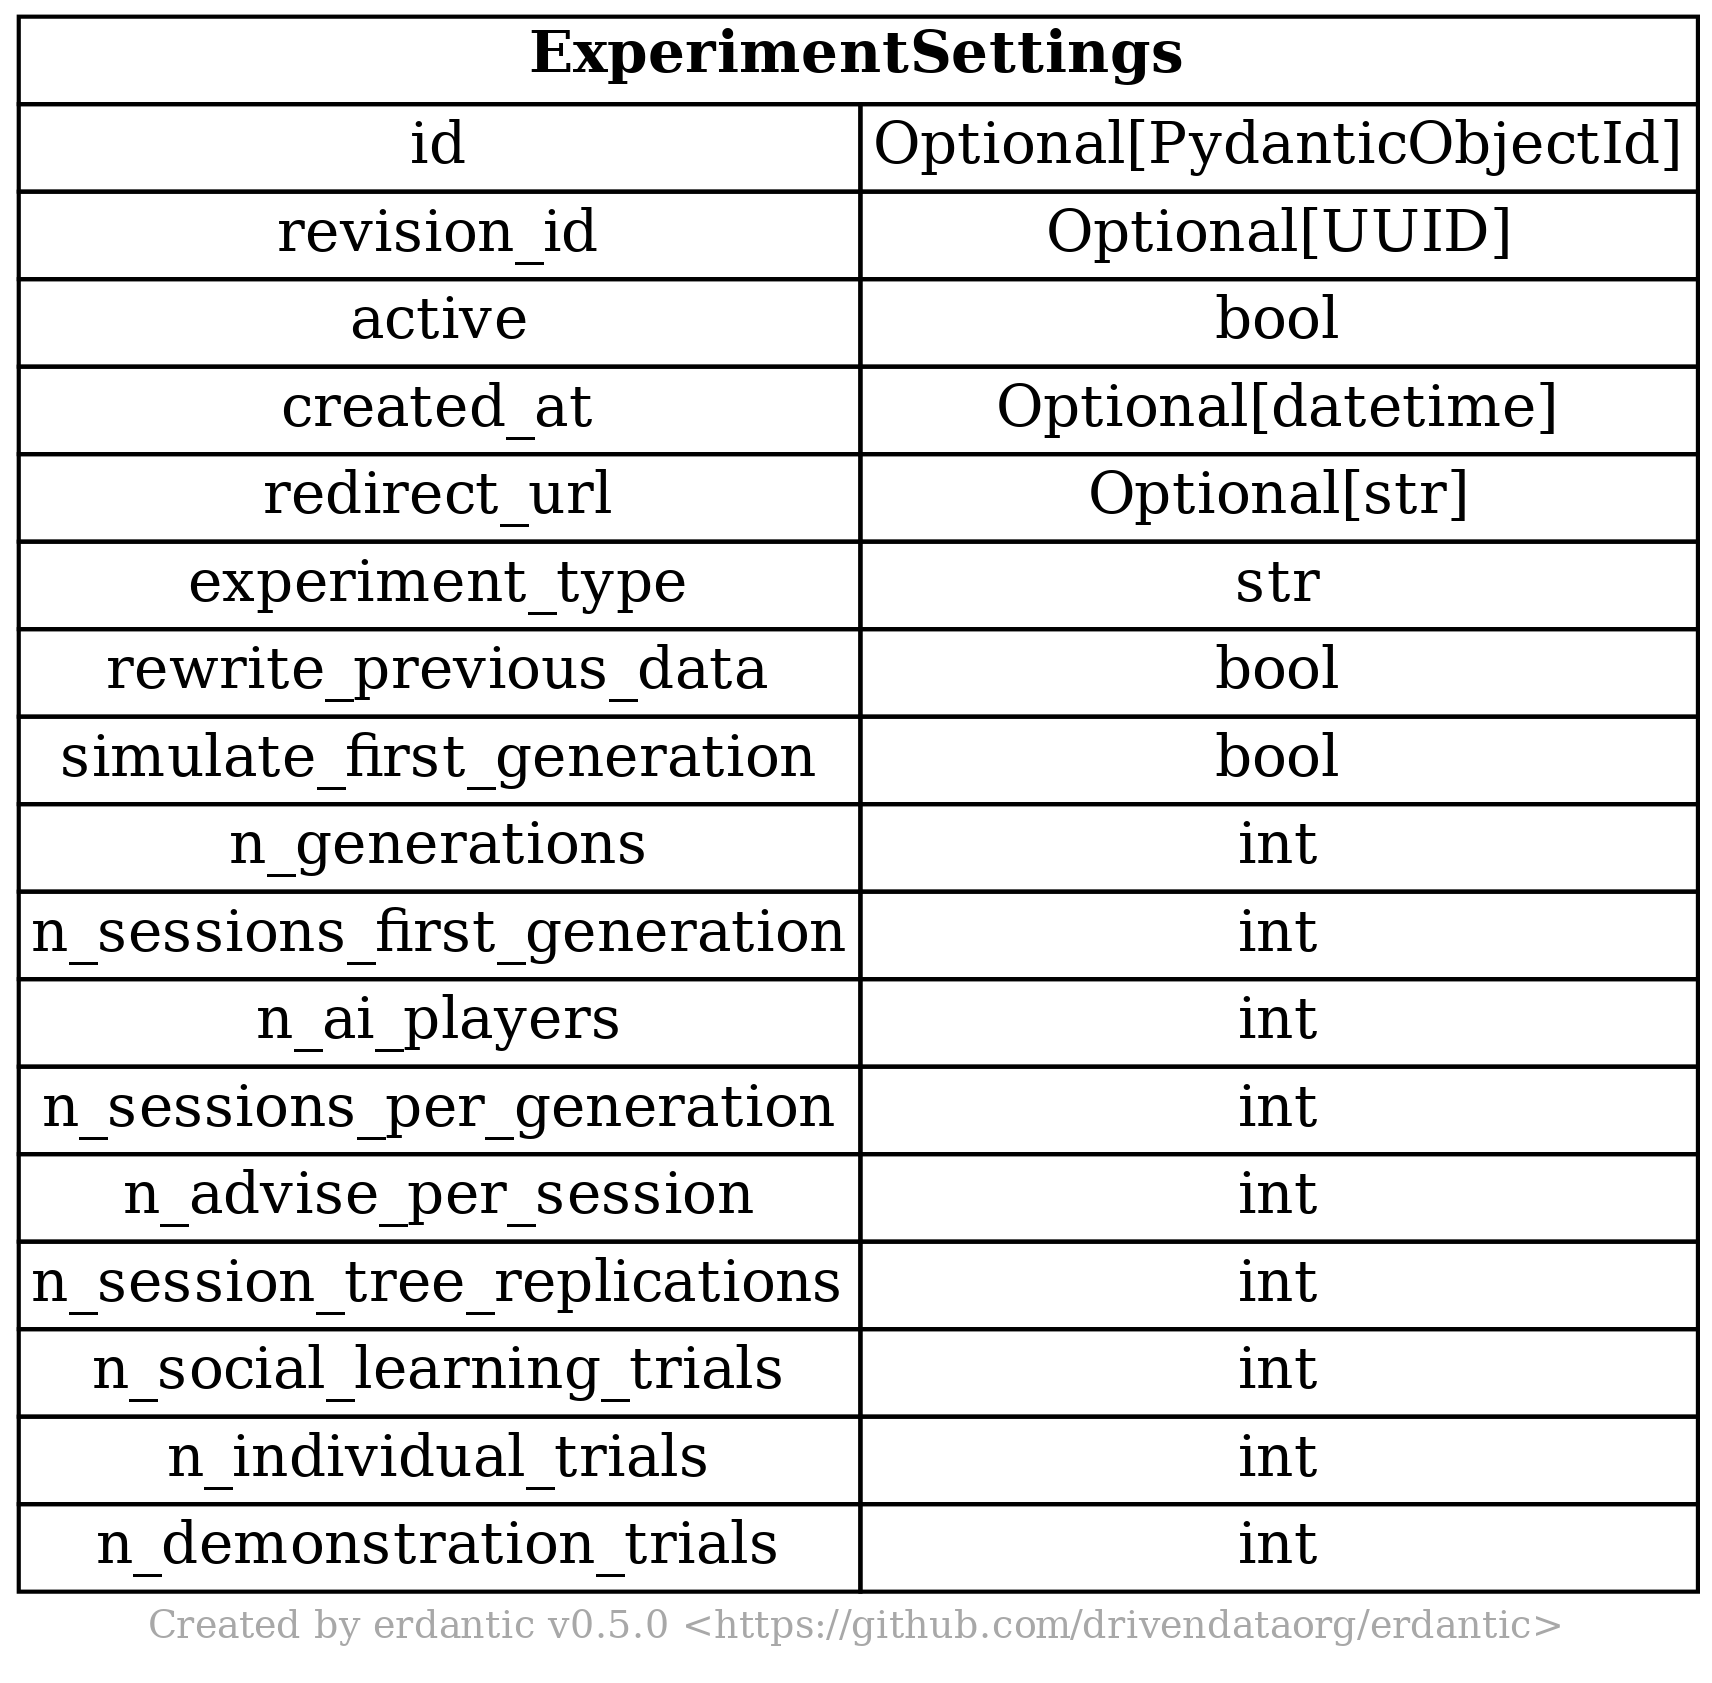
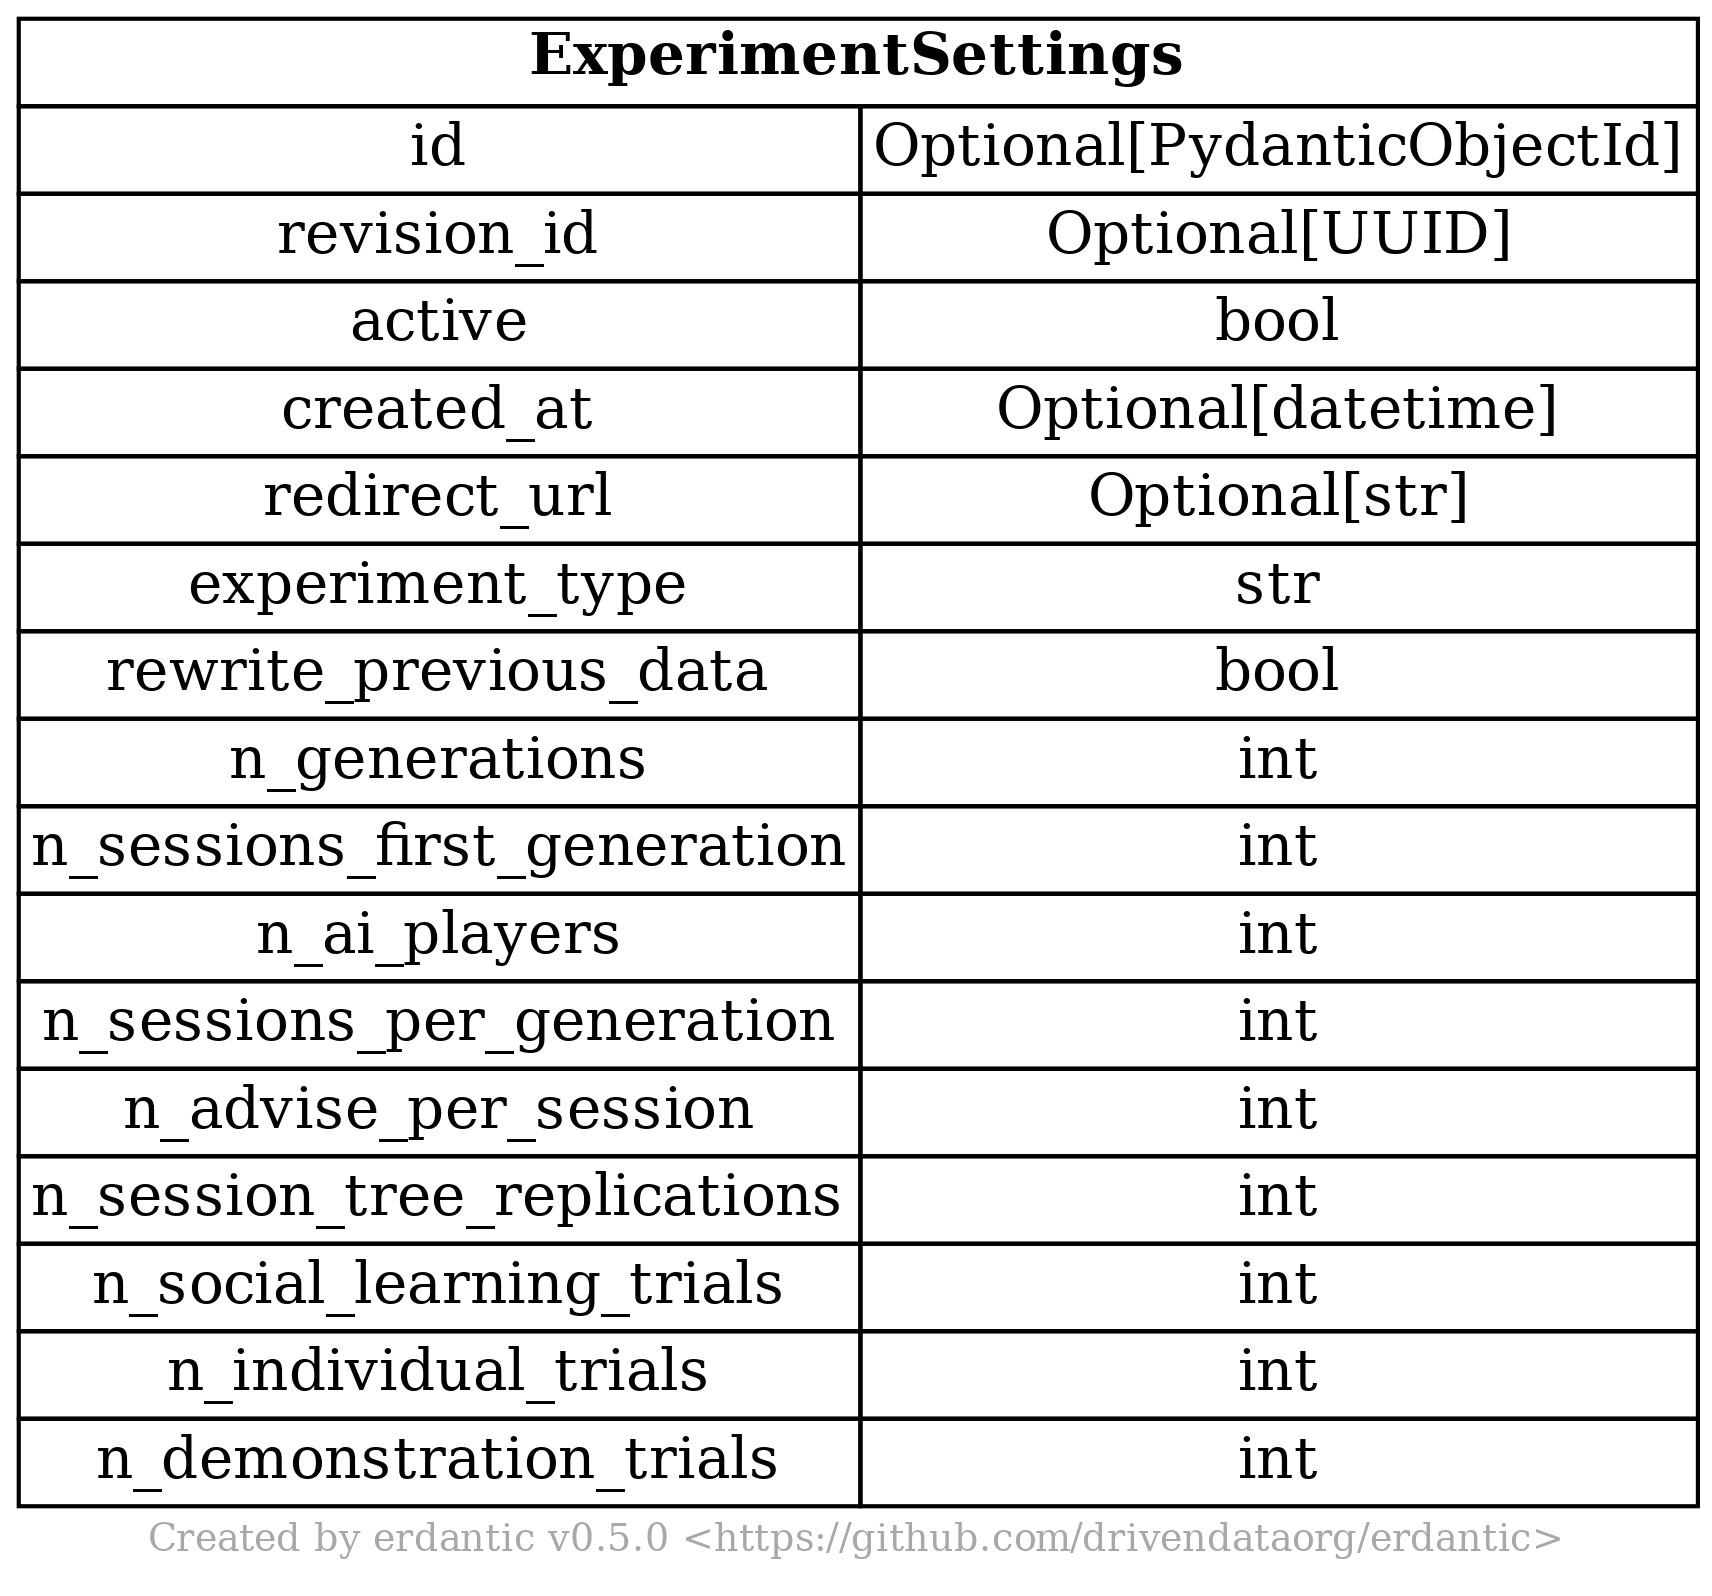
remove session simulation parameter from the config

Changed region(s): [[0.0, 0.0, 0.9907, 0.9825]]

diff --git a/backend/app/study_setup/generate_sessions.py b/backend/app/study_setup/generate_sessions.py
@@ -64,10 +64,6 @@ async def generate_experiment_sessions():
                 redirect_url=config.redirect_url,
             )
 
-        if config.simulate_first_generation:
-            from tests.simultate_session_data import simulate_data
-            await simulate_data(1, config)
-
     # update all child sessions to have the correct number of finished parents
     # especially relevant for the AI player parents
     await Session.find(

diff --git a/backend/app/models/config.py b/backend/app/models/config.py
@@ -15,7 +15,6 @@ class ExperimentSettings(Document):
     # GENERAL SETTINGS
     experiment_type: str = 'reward-network-iii'  # name of the experiment
     rewrite_previous_data: bool = False
-    simulate_first_generation: bool = False  # development only
 
     # SESSION TREE SETTINGS
     # number of generations with the first generation
